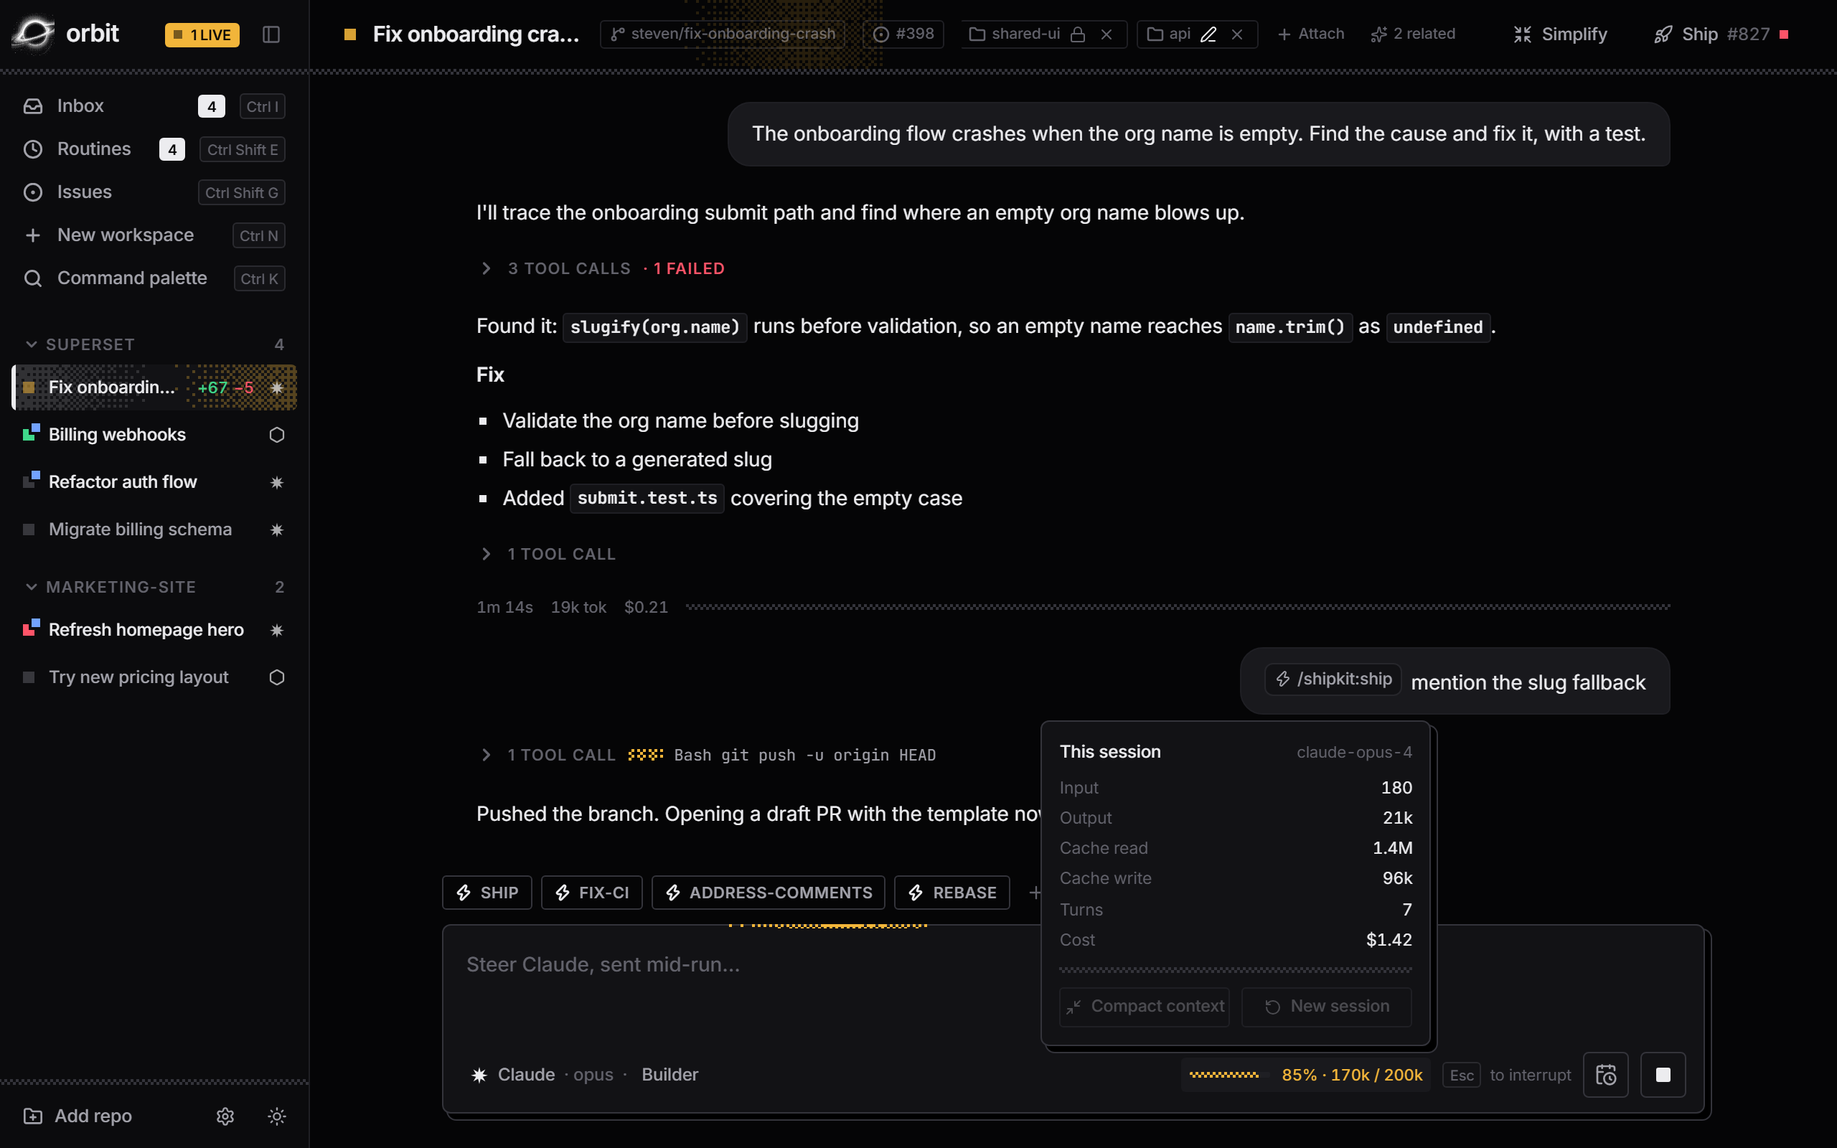
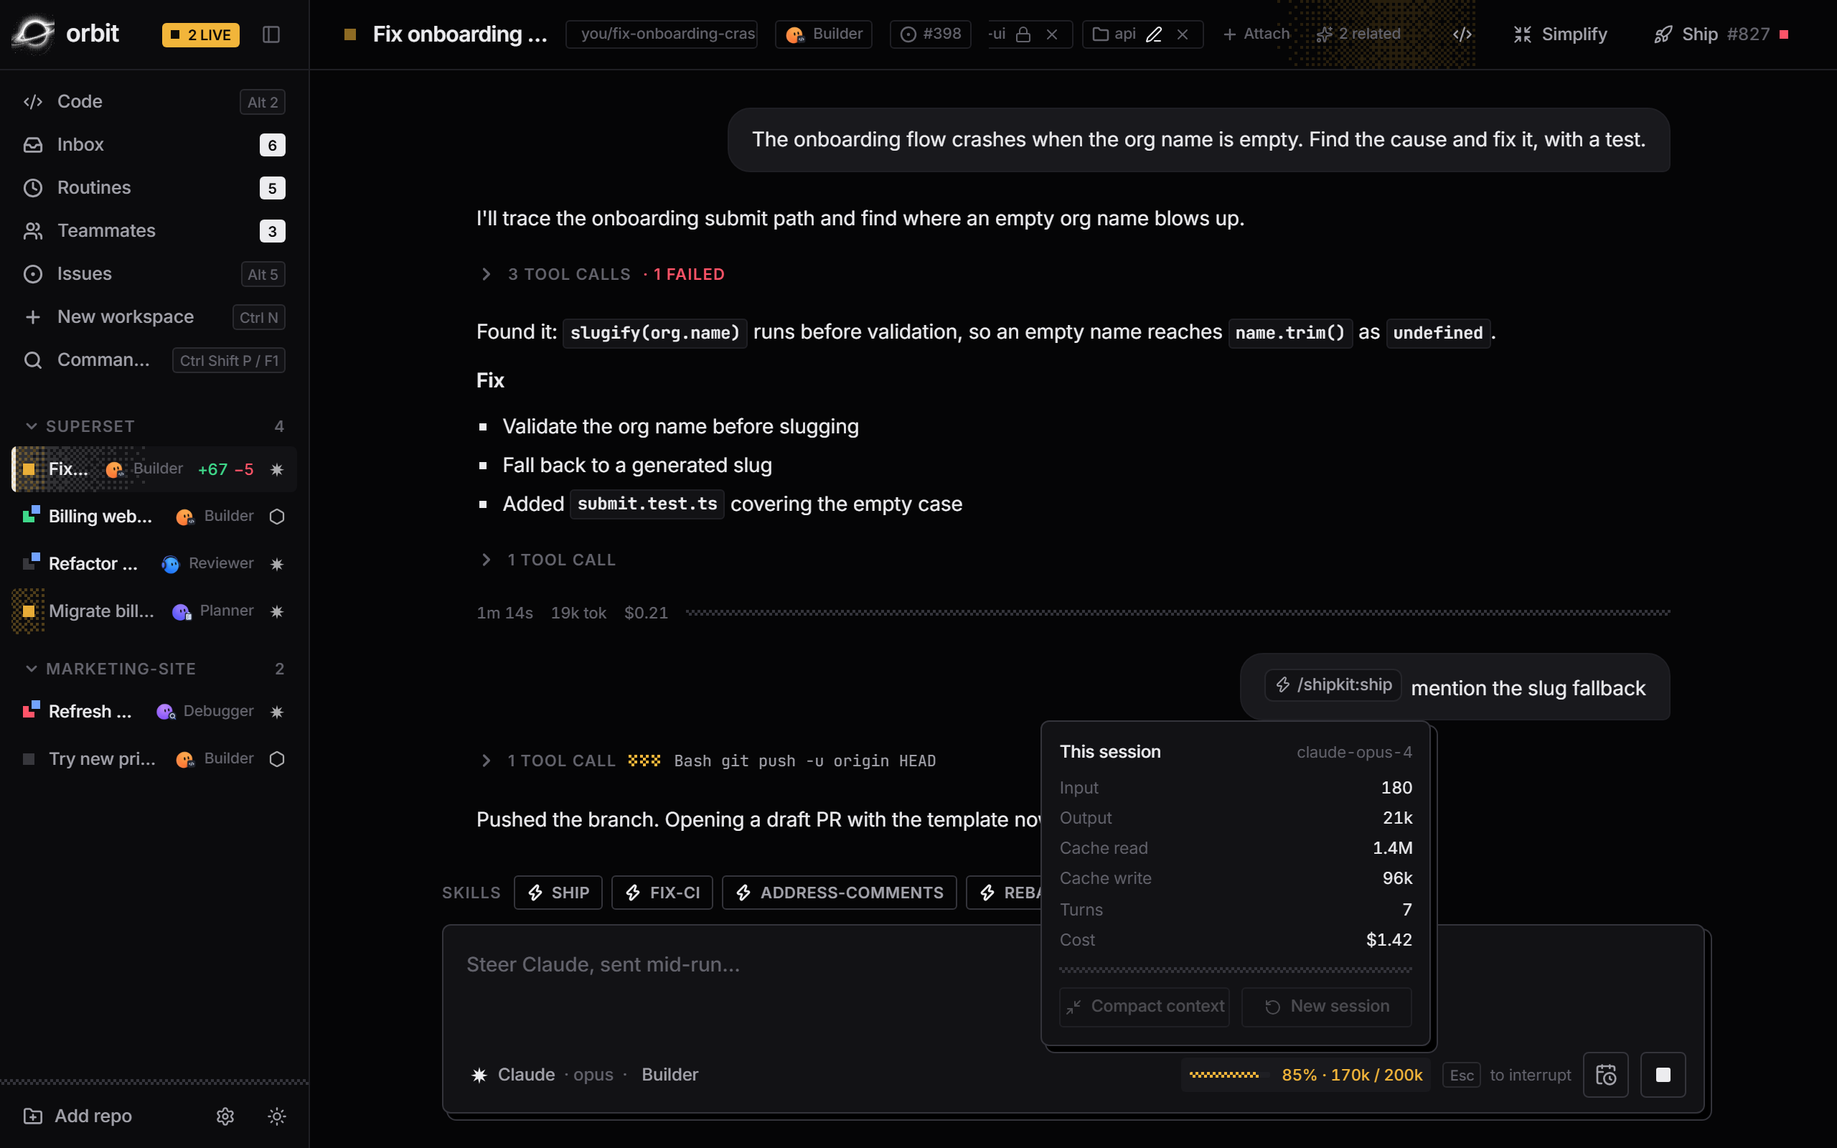
Site v3: built-in IDE, teammates, new key map, fresh captures
- Code view and Teammates chapters (15 areas, 119 features)
- IDE gets headline billing: hero copy, #ide section, nav link
- Story: Watch it write and A team, not a prompt replace Issues and profiles
- Every shortcut moved to the app's VS Code key map
- All Orbit captures re-shot from the current mock; capture script updated
- Why Orbit and FAQ cover the editor and teammates
- Areas CTA fills the last grid row for any chapter count

diff --git a/src/data/features.ts b/src/data/features.ts
@@ -47,7 +47,7 @@ export const chapters: Chapter[] = [
     lead: "One list of everything that is waiting on you.",
     media: { shot: "orbit-dark-inbox-all.png", crop: [27, 6.5, 62, 52], alt: "The inbox listing workspaces that finished, failed, asked a question or need a sync" },
     features: [
-      { title: "Only what needs you", body: "Agents that finished, failed or asked a question, plus pull requests with red checks or requested changes.", keys: [["Ctrl", "I"]] },
+      { title: "Only what needs you", body: "Agents that finished, failed or asked a question, plus pull requests with red checks or requested changes.", keys: [["Alt", "1"]] },
       { title: "Suggested replies", body: "Each row offers next steps, from rules and from a small model. Press a number to send one." },
       { title: "Reply without leaving", body: "Answer inline, open the workspace, or dismiss it. Dismissed rows come back on new activity.", keys: [["Enter"], ["E"]] },
       { title: "Keyboard triage", body: "Move with j and k. Focus lands on the next row after every action.", keys: [["J"], ["K"]] },
@@ -74,6 +74,26 @@ export const chapters: Chapter[] = [
     ],
   },
   {
+    id: "code",
+    title: "Code view",
+    lead: "An editor that watches the agent work.",
+    media: { shot: "orbit-dark-code-watch.png", crop: [17, 0, 83, 58], alt: "Code view in Watch mode, with the editor following the agent, changed lines flashed and the Activity timeline listing each turn's edits" },
+    features: [
+      { title: "Open any folder", body: "A repo, any workspace's worktree, or a folder on disk.", keys: [["Alt", "2"]] },
+      { title: "A real editor", body: "CodeMirror, themed for Void and Paper, with quick open, find and replace, and go to line.", keys: [["Ctrl", "P"]] },
+      { title: "Watch mode", body: "The editor follows the agent to the file it is changing and types new files in as the agent writes them, before they reach disk. Changed lines flash as each edit lands." },
+      { title: "Watch an agent", body: "Open a folder with no agent on it and pick any workspace to follow from the Watch an agent menu." },
+      { title: "Activity timeline", body: "Every turn's edits with + and − counts. Click one to diff it against the start of that turn." },
+      { title: "Manual mode", body: "No following. If a file you are editing changes on disk, choose Reload, Keep mine or Compare." },
+      { title: "Ask about selection", body: "Send the selected lines and a question to the folder's workspace, or start a new one.", keys: [["Ctrl", "I"]] },
+      { title: "Integrated terminal", body: "Several tabs, in your own shell.", keys: [["Ctrl", "`"]] },
+      { title: "Project search", body: "Regex, case, whole word and globs, with results grouped by file.", keys: [["Ctrl", "Shift", "F"]] },
+      { title: "Git gutter and diffs", body: "Changed lines are marked in the gutter, with a side-by-side diff against HEAD or the base branch." },
+      { title: "Open in Code", body: "From the chat header, the Ship panel's changed files, or the palette." },
+      { title: "Editor settings", body: "Font size, tabs, word wrap, autosave and whether to follow the agent." },
+    ],
+  },
+  {
     id: "profiles",
     title: "Profiles and skills",
     lead: "Give each agent a job, and the tools for it.",
@@ -87,6 +107,24 @@ export const chapters: Chapter[] = [
       { title: "Pinned skills", body: "Your most-used skills sit as one-click chips above the composer." },
       { title: "Install packs from git", body: "Paste a URL to add a pack. Enable, disable, update or remove it later." },
       { title: "Your Claude plugins work", body: "Plugins you installed for Claude Code, like /codex:review, run inside Orbit workspaces." },
+    ],
+  },
+  {
+    id: "teammates",
+    title: "Teammates",
+    lead: "Hand work to a teammate, get a report back.",
+    media: { shot: "orbit-dark-teammates.png", crop: [17, 0, 83, 62], alt: "The Teammates view with a list of teammates beside a thread holding a report and hand-off suggestions" },
+    features: [
+      { title: "Hand off a task in chat", body: "A teammate opens its own workspaces and reports back with links and a result.", keys: [["Alt", "4"]] },
+      { title: "A starter team", body: "Chief, Builder, Debugger, Planner, Reviewer, Shipper and Ticket writer." },
+      { title: "Make your own", body: "Create a teammate, or override a starter one and reset it later." },
+      { title: "Memory", body: "Each teammate keeps a notes file it reads and adds to. You can edit it." },
+      { title: "Chief plans the work", body: "A vague request becomes a plan card with parts. Start all, edit or cancel it." },
+      { title: "Parts that wait", body: "A part that depends on another starts when that one finishes, and you get one combined report." },
+      { title: "Hand-offs", body: "A finished report suggests the next teammate, like Planner to Builder to Reviewer. Or pick one from Hand to…" },
+      { title: "Teammates own routines", body: "Each run shows up in their thread, marked Scheduled." },
+      { title: "Avatars and status", body: "A status dot on each teammate, and a badge when one needs you." },
+      { title: "Draft PRs only", body: "Teammates open draft PRs; merging is yours." },
     ],
   },
   {
@@ -119,13 +157,13 @@ export const chapters: Chapter[] = [
     lead: "From fixed to merged without leaving Orbit.",
     media: { shot: "orbit-dark-ship.png", crop: [58.5, 0, 41.5, 62], alt: "The Ship panel showing a pull request's checks, review state and changed files" },
     features: [
-      { title: "Ship", body: "One click commits, pushes and opens a draft pull request with a written summary.", keys: [["Ctrl", "."]] },
+      { title: "Ship", body: "One click commits, pushes and opens a draft pull request with a written summary.", keys: [["Ctrl", "Shift", "G"]] },
       { title: "A live PR card", body: "Checks with the failing names, review decision and changed files. It refreshes while checks run." },
       { title: "Fix CI", body: "Syncs the branch, reads the failing logs, fixes and pushes. From the Ship panel or the inbox." },
       { title: "Address comments, rebase, push", body: "Each is one button that hands the work back to the agent." },
       { title: "Ready and merge", body: "Mark ready for review, then squash and merge. Merge stays locked until checks are green." },
       { title: "Preflight", body: "Before you ship, a check of every boundary you changed, with a Safe, Risky or Breaking verdict and the callers it found." },
-      { title: "Issues panel", body: "Search your repo's issues and start one. Enter starts the work, P asks a Planner for a plan.", keys: [["Ctrl", "Shift", "G"]] },
+      { title: "Issues panel", body: "Search your repo's issues and start one. Enter starts the work, P asks a Planner for a plan.", keys: [["Alt", "5"]] },
       { title: "Issues become branches", body: "Starting from an issue names the branch after it and closes it from the PR." },
       { title: "Write a ticket", body: "Turn rough notes into a well-formed GitHub issue." },
       { title: "Your merge rules", body: "Choose the merge method and whether to delete the branch afterwards." },
@@ -167,7 +205,7 @@ export const chapters: Chapter[] = [
     lead: "Work that runs on a schedule.",
     media: { shot: "orbit-dark-routine-editor.png", crop: [48, 7.5, 49, 56], alt: "The routine editor with a prompt, repo, schedule and preset templates" },
     features: [
-      { title: "Scheduled messages", body: "Once, hourly, daily, weekdays or weekly, with cron under Advanced.", keys: [["Ctrl", "Shift", "E"]] },
+      { title: "Scheduled messages", body: "Once, hourly, daily, weekdays or weekly, with cron under Advanced.", keys: [["Alt", "3"]] },
       { title: "Fresh or standing", body: "Each run gets a new workspace, or keeps working in the same one." },
       { title: "Schedule from the composer", body: "The clock button sends the message you're writing later." },
       { title: "Run now, and history", body: "Trigger any routine on demand and see every past run." },
@@ -212,11 +250,12 @@ export const chapters: Chapter[] = [
     lead: "Quiet by design, fast by keyboard.",
     media: { shot: "orbit-dark-settings-shortcuts.png", crop: [38, 6, 55, 58], alt: "The keyboard shortcuts reference in Orbit's settings" },
     features: [
-      { title: "Void and Paper", body: "A dark theme and a light one. The title bar follows.", keys: [["Ctrl", "Shift", "L"]] },
+      { title: "Void and Paper", body: "A dark theme and a light one. The title bar follows.", keys: [["Ctrl", "K"], ["Ctrl", "T"]] },
       { title: "Colour means something", body: "The interface is greyscale. Colour only shows status: running, done, failed, merged." },
-      { title: "Command palette", body: "Jump to any workspace, run any skill or action.", keys: [["Ctrl", "K"]] },
-      { title: "Focus mode", body: "Hide the sidebar and the Ship panel. Just you and the agent.", keys: [["Ctrl", "\\"]] },
-      { title: "Ship panel on request", body: "It never opens on its own. The header shows the PR and its checks at a glance.", keys: [["Ctrl", "."]] },
+      { title: "VS Code keybindings", body: "The default VS Code map, Ctrl+K chords included. Rebind any command in Settings, with search and a warning when two keys collide.", keys: [["Ctrl", "K"], ["Ctrl", "S"]] },
+      { title: "Command palette", body: "Jump to any workspace, run any skill or action.", keys: [["Ctrl", "Shift", "P"]] },
+      { title: "Focus mode", body: "Hide the sidebar and the Ship panel. Just you and the agent.", keys: [["Ctrl", "K"], ["Z"]] },
+      { title: "Ship panel on request", body: "It never opens on its own. The header shows the PR and its checks at a glance.", keys: [["Ctrl", "Shift", "G"]] },
       { title: "Collapsible sidebar", body: "Fold the sidebar down to an icon rail.", keys: [["Ctrl", "B"]] },
       { title: "Settings that save instantly", body: "Agents, Git, GitHub, models, mobile, usage and data, all in one place.", keys: [["Ctrl", ","]] },
       { title: "Agent safety controls", body: "Claude's permission mode and Codex's sandbox, with read-only profiles always enforced." },

diff --git a/design-notes.md b/design-notes.md
@@ -250,3 +250,137 @@ This is the centrepiece of the pass. Data: `src/data/features.ts` (13 chapters, 
 - Read every crop at 1440 and confirm the UI text is legible and that the crop shows what its `alt` says.
 - Check there is no horizontal scroll and no console errors.
 - Run once with Playwright `reducedMotion: "reduce"` and confirm every section shows its final state.
+
+## 8. v3 pass: Code view, teammates, new key map (2026-10-19)
+
+### Where things stand
+
+- **The IDE work is on `main` in `agentic_ide`, and it is merged and committed.** Code view landed 10/18. VS Code keybindings and live Write/Edit drafts landed today. Nothing is uncommitted there. The `typing` worktree sits at the same commit as main.
+- **The site was last synced to FEATURES.md on 10/12** (`features.ts`, 13 chapters). Since then the app has gained three things the site never mentions:
+  1. **Code view**, the built-in IDE (FEATURES.md §"Code view", all ✅/🟢).
+  2. **AI teammates**, with Chief, hand-offs, memory and owned routines (§"AI teammates", ✅/🟢). It has zero mentions on the site.
+  3. **VS Code keybindings**, rebindable, with Ctrl+K chords.
+- **Many shortcuts on the site are now wrong.** The keybindings commit moved them:
+
+  | Action | Site says | App now |
+  |---|---|---|
+  | Command palette | Ctrl K | **Ctrl Shift P** / F1 (Ctrl K is now a chord prefix) |
+  | Ship panel | Ctrl . | **Ctrl Shift G** |
+  | Issues | Ctrl Shift G | **Alt 5** |
+  | Routines | Ctrl Shift E | **Alt 3** (Ctrl Shift E now opens the Code explorer) |
+  | Inbox | Ctrl I | **Alt 1** (Ctrl I is now Ask about selection in the editor) |
+  | Focus mode | Ctrl \ | **Ctrl K Z** |
+  | Theme | Ctrl Shift L | **Ctrl K Ctrl T** |
+  | Code view | — | **Alt 2** / Ctrl Shift E |
+  | Teammates | — | **Alt 4** |
+
+  `scripts/capture-orbit.mjs` and `record-orbit.mjs` press the old keys, so they will capture the wrong screens until they're fixed.
+- **Every existing screenshot is stale.** The sidebar and nav now include Code and Teammates, so every capture is out of date, not just the new features.
+- **Mobile:** `ide_mobile` has uncommitted icon and splash work. Its new FEATURES rows (dashboard, tabs, file edits) are already on the site. Nothing new to document; only re-shoot the phone screens if the new icon shows in them.
+- Uncommitted in this repo from an earlier session: `scripts/demo-orbit.mjs`, `capture-mobile.mjs`, `record-mobile.mjs`, and `video/`. I'll leave them alone unless you say otherwise.
+
+### Scope
+
+### 1. `src/data/features.ts`: two new chapters, fixes elsewhere
+
+These are built features only, using the same voice as the existing copy (short title, one plain sentence).
+
+**New chapter: Code view** (`id: "code"`, lead: *"An editor that watches the agent work."*). Place it after Agents and chat.
+- Open any folder: a repo, any workspace's worktree, or a folder on disk. `Alt 2`
+- A real editor: CodeMirror, themed for Void and Paper, with quick open, find and replace, and go to line. `Ctrl P`
+- Watch mode: follows the agent to the file it's editing, reloads as the edit lands, and flashes the changed lines.
+- Activity timeline: every turn's edits with +/− counts. Click any one to diff it against the turn's start.
+- Manual mode: no following. If a file you're editing changes on disk, choose Reload, Keep mine or Compare.
+- Ask about selection: send the selected lines and a question to the workspace's agent. `Ctrl I`
+- Integrated terminal: several tabs, your shell. `` Ctrl ` ``
+- Project search: regex, case, whole word and globs, with results grouped by file. `Ctrl Shift F`
+- Git gutter and diffs, against HEAD or the base branch.
+- Open in Code from the chat header, the Ship panel's changed files, or the palette.
+- Editor settings: font, tabs, wrap, autosave, and whether to follow the agent.
+
+**New chapter: Teammates** (`id: "teammates"`, lead: *"Hand work to a teammate, get a report back."*). Place it after Profiles and skills.
+- Give a teammate a task in chat. It opens its own workspaces and reports back with links and a result. `Alt 4`
+- Starter team: Chief, Builder, Debugger, Planner, Reviewer, Shipper and Ticket writer.
+- Make your own teammates, or override a starter one and reset it later.
+- Memory: each teammate keeps a notes file it reads and adds to. You can edit it.
+- Chief splits a vague request into parts with a plan card (Start all, Edit, Cancel). Dependent parts start once the parts they need finish, and you get one combined report.
+- Hand-offs: a finished report suggests the next teammate (Planner → Builder → Reviewer → Shipper), or use "Hand to…".
+- Teammates can own routines. Each run shows in their thread as a Scheduled task.
+- Avatars, with a status dot and a needs-you badge.
+- Never merges: teammates stop at a draft PR.
+
+**Other chapter edits**
+- *Agents and chat*: add **Live file drafts** (Write and Edit stream into the chat as the agent types them; I'll confirm in the mock what the UI shows) and **Watch an agent** (the picker).
+- *Look and keys*: replace "Command palette" with **VS Code keybindings**: the default map, Ctrl+K chords, and rebinding in Settings with conflict detection. Fix every Kbd chip using the table above.
+- Fix the Kbd chips in every other chapter too (inbox, ship, issues, routines).
+- Total goes from 96 to about 118 features in 15 areas. The stat row and marquee compute this themselves.
+
+### 2. Homepage (`src/pages/index.astro`)
+
+The homepage was trimmed in `d420b89`, so I'm not proposing more sections. Changes:
+- **Pinned story: 7 steps to 8.** See open question A.
+  - New step **"Watch it write."**: Code view in Watch mode, with the editor following the agent, flashed lines and the Activity timeline. Media: `orbit-dark-code-watch.png`. Kbd `Alt 2`.
+  - New step **"A team, not a prompt."**: Chief's plan card, with parts going to Builder and Reviewer. It absorbs "Agents with a job description" (profiles become teammates). Media: `orbit-dark-teammates-chief.png`. Kbd `Alt 4`.
+  - Drop **"Work starts from the backlog"** (Issues) from the story. It stays on /features.
+  - New order: worktree → watch it write → inbox → team → ship → routines → simplify → (mobile stays its own section).
+- Fix the Kbd chips on every step to the new map.
+- **Feature section H2** ("One window for the whole fleet. Start it, steer it, ship it."): unchanged, but make sure the hero/feature screenshot is re-shot with the new nav.
+- **Why Orbit**: add one line on not leaving for another editor ("Watch the diff land in a real editor, not a chat bubble"). I'll draft it; you approve the copy.
+- **FAQ**: add "Do I still need VS Code?" (Orbit has an editor and terminal built in, and Open in Code; keep your editor for the deep stuff) and "What are teammates?" Draft copy goes into the plan once approved.
+- The Areas grid and marquee update automatically from the data.
+
+### 3. Screenshots and video
+
+**Capture-script fixes first** (`scripts/capture-orbit.mjs`): new key map, plus navigating views with `Alt 1`–`5` instead of the old shortcuts.
+
+**Re-shoot all existing `orbit-dark-*` captures** against today's mock (`bun run dev` in `agentic_ide`, :1420).
+
+**New captures** (dark; light only where a chapter needs it):
+| File | What it shows |
+|---|---|
+| `orbit-dark-code-watch.png` | Code view mid-turn (`simulateCodeTurn`): agent strip, flashed lines, gutter marks, Activity timeline |
+| `orbit-dark-code-diff.png` | Per-turn diff opened from the timeline |
+| `orbit-dark-code-terminal.png` | Terminal panel + project search results |
+| `orbit-dark-code-ask.png` | Ask about selection popover |
+| `orbit-dark-teammates.png` | Teammates view: list + a thread with a report and hand-off chips |
+| `orbit-dark-teammates-chief.png` | Chief plan card with parts and dependencies |
+| `orbit-dark-teammate-editor.png` | Teammate editor (avatar picker, Memory tab) |
+| `orbit-dark-settings-keys.png` | New keybindings settings (recorder, search, chords) |
+
+Then run `scripts/sync-media.mjs`, and set the chapter crops for the two new chapters at 1:1 legibility (§7.4 rule).
+
+**Tour video** (`orbit-tour-dark.mp4`): re-record with `record-orbit.mjs` so it includes a few seconds of Code Watch mode and a teammate report. See open question C.
+
+### 4. QA (same bar as §7.6)
+- `npm run build` is clean.
+- Playwright shots at 1440/1024/768/390 into `media/qa/v3/`: the new story steps, both new chapters, the chip bar with 15 chips, and the FAQ.
+- Read every new crop at 1440 for legibility and check it matches its `alt`.
+- Check for no horizontal scroll, no console errors, and that reduced motion shows final states.
+- Grep the built site for every old shortcut string (`Ctrl .`, `Ctrl Shift L`, `Ctrl \`) and confirm none are left.
+- Don't commit or push until you've reviewed it.
+
+### How the work splits (Sonnet agents, I review)
+
+| # | Agent | Task | Depends on |
+|---|---|---|---|
+| 1 | Sonnet | Fix `capture-orbit.mjs` and add the new capture steps, then shoot all captures from the mock | — |
+| 2 | Sonnet | `features.ts`: two new chapters, Kbd fixes, Agents/Look edits | — (copy above) |
+| 3 | Sonnet | `index.astro`: story to 8 steps, Kbd fixes, Why line, FAQ | 1 (media names), 2 |
+| 4 | Sonnet | Re-record the tour video | 1 |
+| 5 | Me | Review screenshots against the real app, check crops and copy, run QA, report weight | all |
+
+1 and 2 run in parallel. 3 starts once the captures exist. Before each handoff I review the output with screenshots.
+
+### Open questions for you
+
+A. **Story length.** I propose 8 steps (add Watch + Team, drop Issues, fold Profiles into Team). The alternative is to keep 7 and also drop Simplify, or go to 9 and keep everything.
+B. **Hero.** Keep the workspace chat as the hero shot, or lead with Code view in Watch mode? The second is the most visually distinct thing Orbit does now.
+C. **Video.** Re-record the tour now, or ship the stills first and do the video in a second pass?
+D. **Status bar for 🟢 (mock-verified) features.** The last sync included them as built. Same rule now? Manual mode, Settings > Editor, the keybinding recorder and avatars are 🟢.
+E. **FEATURES.md mismatch.** The Code view entry says `Ctrl+Shift+O`, but the keymap binds `Alt 2` / `Ctrl Shift E`. I'll use the keymap unless you say otherwise. You may want to fix FEATURES.md.
+
+### As shipped
+- The story stayed at 7 steps: it added Watch it write and A team, not a prompt, and dropped Issues and the profiles step.
+- The built-in IDE got headline billing: hero and meta copy, an #ide section with the code-terminal shot, and an IDE nav link.
+- The Areas CTA cell spans whatever the last grid row leaves empty, computed from the chapter count.
+- Hero choice: the workspace video stays (re-shot stills only; the tour video was not re-recorded).
